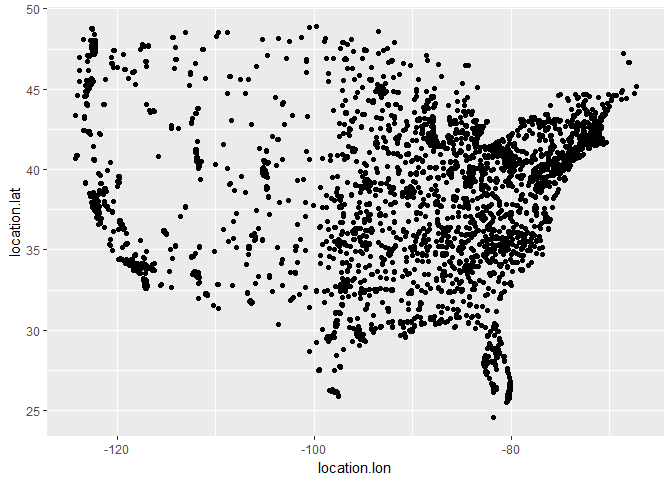
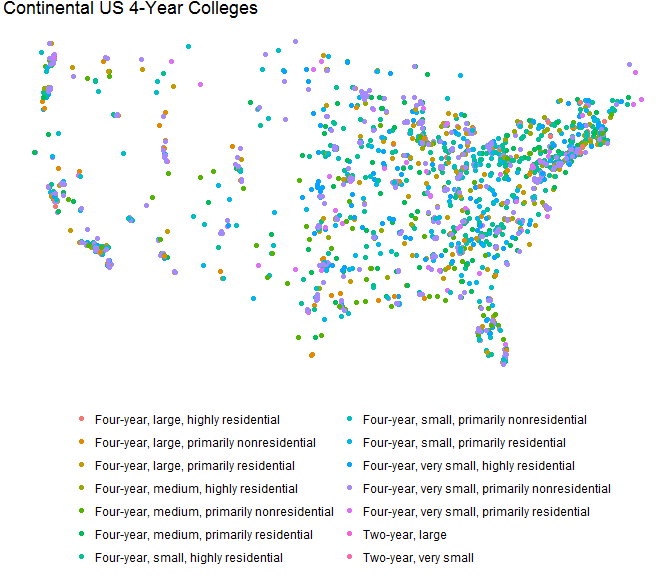
Made a prettier example.

diff --git a/README.md b/README.md
@@ -23,9 +23,20 @@ library(dplyr)
 library(ggplot2)
 uscolleges::uscolleges %>% 
   filter(location.lon > -130, location.lon < 0, location.lat > 20) %>% 
+  filter(degrees_awarded.highest %in% c("Bachelor's degree", "Graduate degree")) %>% 
+  filter(degrees_awarded.predominant != "Entirely graduate-degree granting") %>% 
+  filter(!(carnegie_size_setting %in% c("Exclusively graduate/professional", "Not applicable"))) %>% 
   ggplot() + 
-    aes(x = location.lon, y = location.lat) + 
-    geom_point()
+  aes(x = location.lon, y = location.lat) + 
+  aes(color = carnegie_size_setting) + 
+  geom_point() + 
+  theme_void() + 
+  theme(
+    legend.position = "bottom", 
+    legend.title = element_blank()
+  ) +
+  guides(color = guide_legend(nrow = 7)) +
+  ggtitle("Continental US 4-Year Colleges")
 ```
 
 <img src="man/figures/README-example-1.png" width="100%" />
